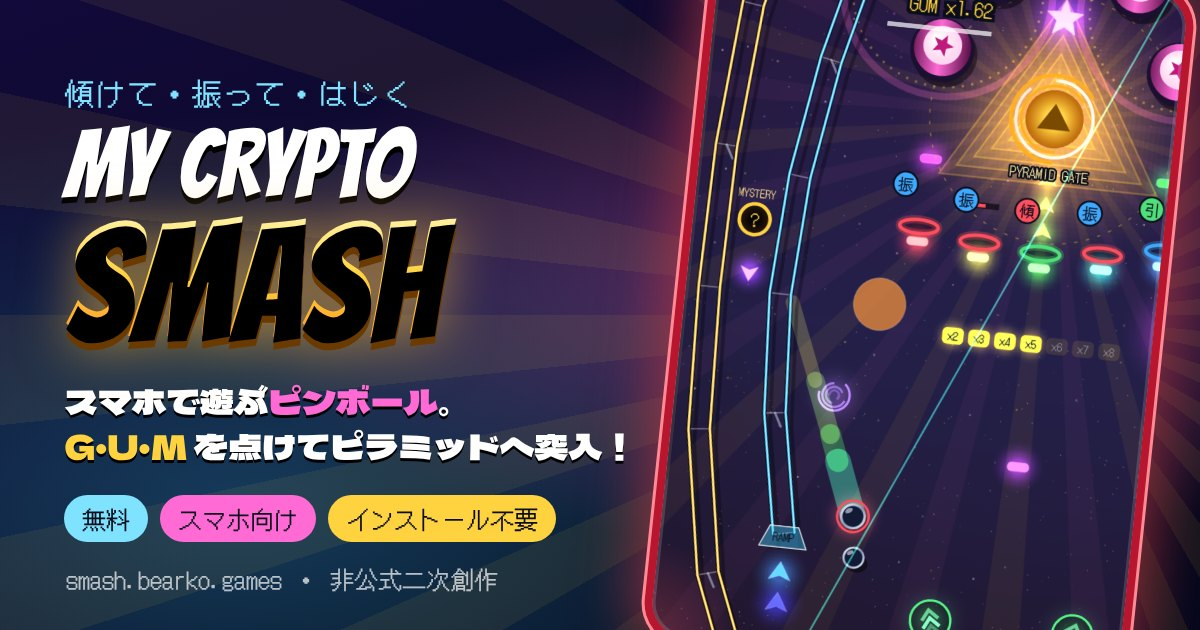
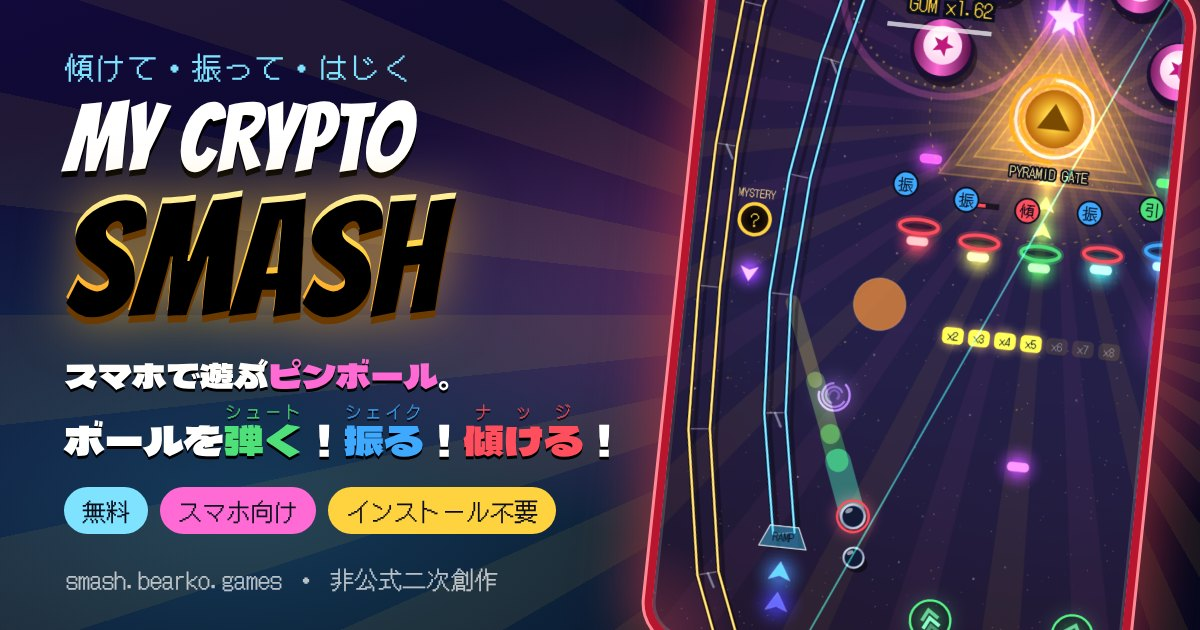
共有のサムネイルの文を「ボールを弾く！振る！傾ける！」にする
- 読み仮名（シュート・シェイク・ナッジ）を付け、文字の色を操作ごとの色（緑・青・赤）にそろえる
- og:／twitter: の説明も同じ文に。画像の URL に ?v=2 を付けて、前のサムネイルを覚えている所にも読み直させる

Claude-Session: https://claude.ai/code/session_01QEYKKMqaKSbrG5R66XJakA

Changed region(s): [[0.0308, 0.0905, 0.5242, 0.8746]]

diff --git a/index.html b/index.html
@@ -12,16 +12,16 @@
     <meta property="og:locale" content="ja_JP" />
     <meta property="og:url" content="https://smash.bearko.games/" />
     <meta property="og:title" content="My Crypto Smash｜傾けて・振って・はじくピンボール" />
-    <meta property="og:description" content="スマホで遊ぶ豪華なピンボール。G・U・M を点けてピラミッドへ突入！ ヒーローの球でエネミーを倒して GUM を集めるインクリメンタルゲーム（非公式二次創作・無料）" />
-    <meta property="og:image" content="https://smash.bearko.games/og.jpg" />
+    <meta property="og:description" content="スマホで遊ぶ豪華なピンボール。ボールを弾く！振る！傾ける！ ヒーローの球でエネミーを倒して GUM を集めるインクリメンタルゲーム（非公式二次創作・無料）" />
+    <meta property="og:image" content="https://smash.bearko.games/og.jpg?v=2" />
     <meta property="og:image:type" content="image/jpeg" />
     <meta property="og:image:width" content="1200" />
     <meta property="og:image:height" content="630" />
     <meta property="og:image:alt" content="My Crypto Smash：光るピンボール台と「傾けて・振って・はじく」のロゴ" />
     <meta name="twitter:card" content="summary_large_image" />
     <meta name="twitter:title" content="My Crypto Smash｜傾けて・振って・はじくピンボール" />
-    <meta name="twitter:description" content="スマホで遊ぶ豪華なピンボール。G・U・M を点けてピラミッドへ突入！（非公式二次創作・無料）" />
-    <meta name="twitter:image" content="https://smash.bearko.games/og.jpg" />
+    <meta name="twitter:description" content="スマホで遊ぶ豪華なピンボール。ボールを弾く！振る！傾ける！（非公式二次創作・無料）" />
+    <meta name="twitter:image" content="https://smash.bearko.games/og.jpg?v=2" />
     <meta name="twitter:image:alt" content="My Crypto Smash：光るピンボール台と「傾けて・振って・はじく」のロゴ" />
     <link rel="icon" href="icon.svg" type="image/svg+xml" />
     <link rel="apple-touch-icon" href="apple-touch-icon.png" />
